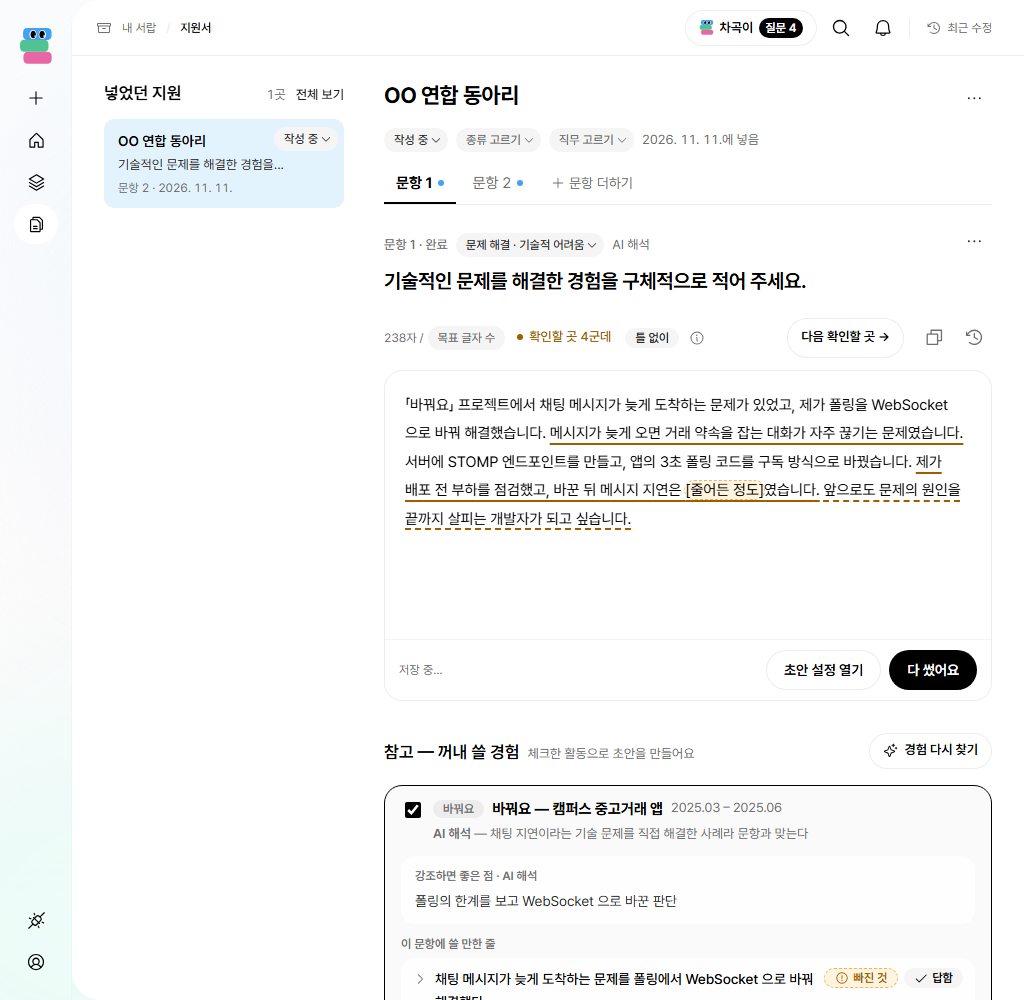
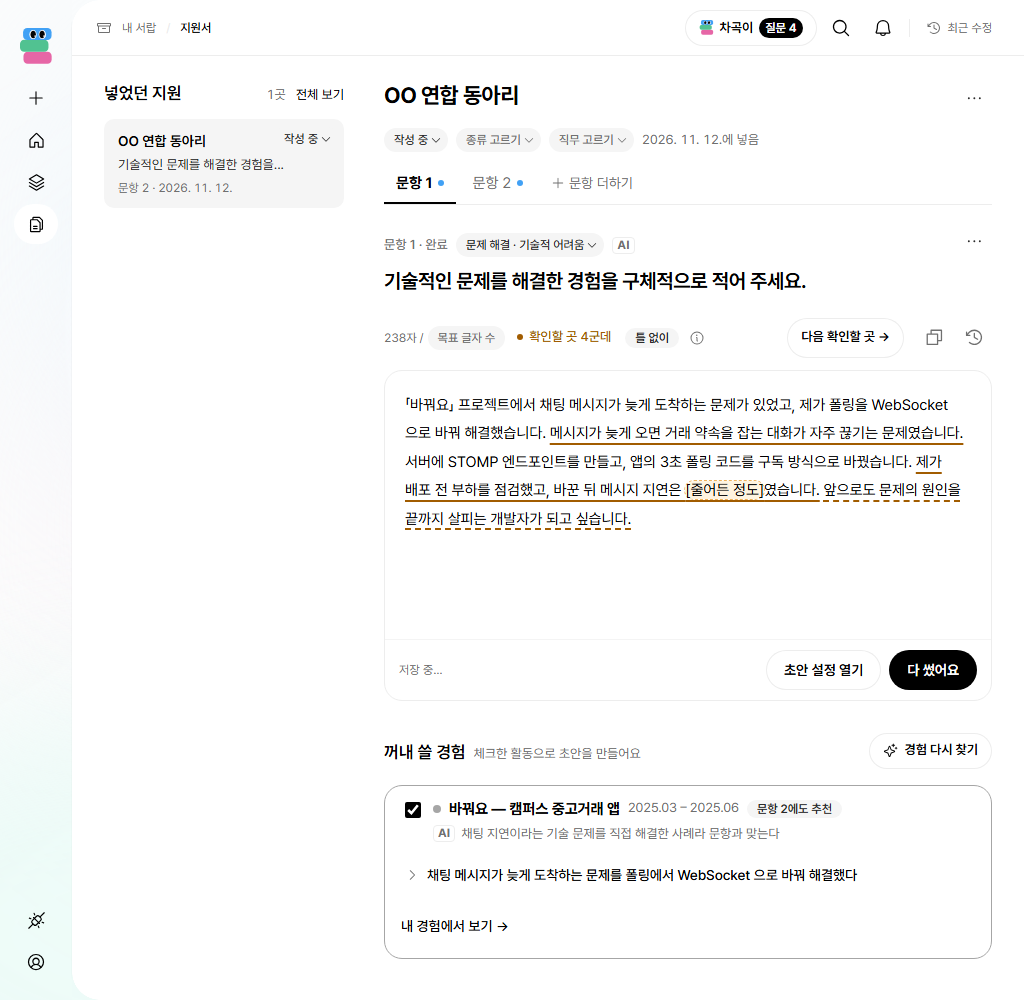
feat(experience-card): 꺼내 쓸 경험 카드 덜어내기 — 원본 칩 · 역량만 남기고 설명 글 빼기 (#510)
PM(2026-11-11): 카드에 설명 · 구분 글자가 너무 많다(ETC#346 의 8 · 9 · 11).
같은 부족한 사실이 카드 「빠진 것」 · 차곡이 「물어볼 것」 · 「초안 보완」 세 곳에 겹쳐
「답함」 배지와 안내 문장까지 필요해졌으니, 카드에서 빼 되묻기 한 곳만 남긴다.

- 「이 문항에 쓸 만한 줄」 제목 · 「빠진 것」 배지/박스 · 「답함」 · 「차곡이 질문에 답했어요」 줄 제거
- 「추천을 뒷받침하는 기록」 · 「원문 발췌」 제목과 발췌 상자 제거 — 펼치면 원본 칩(같은 파일은 한 칩)만
- 펼친 메타는 예외만: 수행 주체는 팀 · 알 수 없음일 때만, 출처는 「확인 필요」만(ExperienceMeta quiet)
- 펼칠 게 없는 줄은 접는 표시도 없다
- 이유 한 줄은 두 줄에서 자르고 「더 보기」로 전체
- 원본 창 설명 「넣을 때 저장한 글자예요 …」 제거
- 「타임라인에서 활동 보기 →」 → 「내 경험에서 보기 →」

차곡이 실행 결과 카드(chagok-run)의 RecommendationEvidence 는 범위 밖이라 그대로 둔다.

diff --git a/src/components/questions/question-result.tsx b/src/components/questions/question-result.tsx
@@ -1,8 +1,9 @@
 import Link from "next/link";
-import { useState } from "react";
+import { useEffect, useRef, useState } from "react";
 import { Popover } from "radix-ui";
-import { CaretRightIcon, CheckIcon, WarningCircleIcon } from "@phosphor-icons/react";
-import { ExperienceMeta } from "@/components/experience/experience-item";
+import { CaretRightIcon } from "@phosphor-icons/react";
+import { ExperienceMeta, hasQuietMeta } from "@/components/experience/experience-item";
+import { SourceFileButton } from "@/components/experience/source-viewer";
 import { CitationList } from "@/components/experience/citation-list";
 import { McpAnswerLabel, UserEnteredLabel } from "@/components/experience/supplement-list";
 import type { QuestionDetail, Recommendation } from "@/lib/api/question-types";
@@ -43,21 +44,15 @@ export function RecommendationEvidence({ recommendation }: { recommendation: Pic
   })}</div>;
 }
 
-/** 이 문항에서 그 경험에 대한 되묻기에 답했나 — 추천은 문항을 넣을 때 한 번 돌아 답해도 그대로라서(question-api.md · AI#21),
- *  카드에 「답함」을 붙여 답이 다음 문항부터 쓰인다고 알린다(FE#65) */
-const answeredFor = (question: QuestionDetail, experienceId: number) =>
-  question.clarifications.some(c => c.experienceId === experienceId && c.supplementId !== null);
-
-const box = "grid content-start gap-1.5 rounded-sm bg-canvas px-3.5 py-3 text-sm leading-relaxed";
-const boxTitle = "m-0 text-xs font-semibold text-muted";
 const badge = "inline-flex items-center gap-1 rounded-full px-2.5 py-px text-xs font-semibold whitespace-nowrap";
 
 /** 카드에 처음 보이는 줄 수 — 넘으면 「더 보기」(FE#358 기본값) */
 const VISIBLE_LINES = 3;
 
 /** 「꺼내 쓸 경험」(시안 6 apply.html 의 접기 카드)을 활동 카드로 묶는다(S-84 · FE#358).
- *  카드 = 활동 이름 · 기간 + 그 활동 첫 추천의 이유(AI 표시 한 번) + 「이 문항에 쓸 만한 줄」. 사용자는 활동만 체크한다.
- *  줄을 펼치면 근거 · 빠진 것. 요구사항 판정 · 되묻기는 차곡이 패널에 있다.
+ *  카드 = 체크 · 활동 이름 · 기간 + 그 활동 첫 추천의 이유(AI 표시 한 번) + 경험 줄. 사용자는 활동만 체크한다.
+ *  줄을 펼치면 원본 칩 · 역량. 강조점 · 근거 발췌 · 빠진 것은 카드에 두지 않는다 — 부족한 사실은 차곡이 되묻기 한 곳에서만(S-20 · FE#510).
+ *  요구사항 판정 · 되묻기는 차곡이 패널에 있다.
  *  overlapOf — 같은 지원의 다른 문항에도 추천된 활동이면 카드 머리 꼬리표로, 누르면 문항별 강조점을 나란히(S-21 · FE#464 — 따로 있던 패널을 없앴다) */
 export function QuestionResult({ question, overlapOf, onPickQuestion, savingAnswer, requestingDraft, picks, onPick, onRematch }: { question: QuestionDetail; overlapOf?: (activityId: number) => Overlap | undefined; onPickQuestion?: (questionId: number) => void; onPick: (activityId: number, on: boolean) => void; onRematch: Rematch } & Pick<DraftActions, "onOpenOmissions" | "savingAnswer" | "requestingDraft" | "picks">) {
   const picksLocked = savingAnswer || requestingDraft || question.draft?.status === "ANALYZING";
@@ -100,12 +95,11 @@ function ActivityCard({ group, index, question, overlap, onPickQuestion, checked
           <span className="text-note text-muted">{periodText(activity.period)}</span>
           {overlap && <OverlapTag overlap={overlap} questionId={question.id} onPick={onPickQuestion} />}
         </div>
-        {/* 이 카드의 AI 표시는 여기 한 번 — 이유 · 빠진 것이 AI 가 쓴 줄이다. 강조점 상자는 본문을 되풀이해 뺐다(AI#105) */}
-        <p className="m-0 text-note leading-normal text-muted"><AiMark className="mr-1.5" />{first.reason}</p>
+        {/* 이 카드의 AI 표시는 여기 한 번 — 이유가 AI 가 쓴 줄이다. 강조점 상자는 본문을 되풀이해 뺐다(AI#105) */}
+        <Reason text={first.reason} />
       </div>
     </div>
     <div className="grid gap-1.5">
-      <p className={boxTitle}>이 문항에 쓸 만한 줄</p>
       <ul className="m-0 grid list-none divide-y divide-hairline-soft p-0">{lines.map(r => <RecommendationLine key={r.experience.id} recommendation={r} question={question} />)}</ul>
       {hidden > 0 && <button type="button" onClick={() => setShowAll(v => !v)} aria-expanded={showAll}
         className="inline-flex min-h-11 lg:min-h-8 items-center justify-self-start text-sm font-medium text-ink underline-offset-3 hover:underline">
@@ -113,45 +107,62 @@ function ActivityCard({ group, index, question, overlap, onPickQuestion, checked
       </button>}
     </div>
     <Link href={`/experience?activity=${activity.id}&fromQuestion=${question.id}`}
-      className="inline-flex min-h-11 lg:min-h-10 items-center justify-self-start text-sm font-medium text-ink underline-offset-3 hover:underline">타임라인에서 활동 보기 →</Link>
+      className="inline-flex min-h-11 lg:min-h-10 items-center justify-self-start text-sm font-medium text-ink underline-offset-3 hover:underline">내 경험에서 보기 →</Link>
   </li>;
 }
 
-/** 「쓸 만한 줄」 하나 — 펼치면 근거 · 빠진 것. 줄은 넣고 빼지 않는다(S-84) */
+/** 이유 한 줄(AI) — 두 줄을 넘으면 두 줄에서 자르고 「더 보기」로 전체(FE#510 기본값) */
+function Reason({ text }: { text: string }) {
+  const ref = useRef<HTMLParagraphElement>(null);
+  const [open, setOpen] = useState(false);
+  const [clamped, setClamped] = useState(false);
+  useEffect(() => {
+    const el = ref.current;
+    if (!el || open) return;
+    const measure = () => setClamped(el.scrollHeight > el.clientHeight + 1);
+    measure();
+    const observer = new ResizeObserver(measure);
+    observer.observe(el);
+    return () => observer.disconnect();
+  }, [text, open]);
+  return <div className="grid justify-items-start">
+    <p ref={ref} className={cn("m-0 text-note leading-normal text-muted", !open && "line-clamp-2")}><AiMark className="mr-1.5" />{text}</p>
+    {(clamped || open) && <button type="button" onClick={() => setOpen(v => !v)} aria-expanded={open}
+      className="inline-flex min-h-11 lg:min-h-6 items-center text-note font-medium text-ink underline-offset-3 hover:underline">{open ? "접기" : "더 보기"}</button>}
+  </div>;
+}
+
+/** 근거로 연결된 원본 — 파일 칩만(누르면 원본 창이 그 줄로 연다). 같은 파일은 한 칩 */
+function sourcesOf(r: Recommendation) {
+  const seen = new Map<number, { sourceId: number; name: string; lines: NonNullable<typeof r.experience.citations[number]["location"]> | null }>();
+  for (const ref of r.evidence) {
+    if (ref.type !== "CITATION") continue;
+    const c = r.experience.citations.find(x => x.id === ref.id);
+    if (c && !seen.has(c.sourceId)) seen.set(c.sourceId, { sourceId: c.sourceId, name: c.sourceName, lines: c.location ?? null });
+  }
+  return [...seen.values()];
+}
+
+/** 경험 줄 하나 — 펼치면 원본 칩 · 역량(AI 해석). 줄은 넣고 빼지 않는다(S-84). 펼칠 게 없으면 접는 표시도 없다 */
 function RecommendationLine({ recommendation: r, question }: { recommendation: Recommendation; question: QuestionDetail }) {
-  const answered = answeredFor(question, r.experience.id);
   // 줄 이름은 문항 전체 추천 순번 — 카드가 묶여도 「추천 경험 N」으로 찾는다
   const n = question.recommendations.indexOf(r) + 1;
+  const sources = sourcesOf(r);
+  const expandable = sources.length > 0 || hasQuietMeta(r.experience);
+  const content = <span className="text-sm leading-relaxed font-medium whitespace-pre-wrap text-ink">{r.experience.content}</span>;
   return <li id={`recommendation-${question.id}-${r.experience.id}`} aria-label={`추천 경험 ${n}`} className="scroll-mt-5 lg:scroll-mt-20">
-    <details className="group">
-      <summary className="grid cursor-pointer list-none grid-cols-[auto_minmax(0,1fr)] items-start gap-x-2 gap-y-1.5 px-1 py-2.5 sm:grid-cols-[auto_minmax(0,1fr)_auto] [&::-webkit-details-marker]:hidden">
+    {!expandable ? <div className="px-1 py-2.5 sm:pl-6.5">{content}</div> : <details className="group">
+      <summary className="grid cursor-pointer list-none grid-cols-[auto_minmax(0,1fr)] items-start gap-x-2 px-1 py-2.5 [&::-webkit-details-marker]:hidden">
         <CaretRightIcon aria-hidden="true" className="mt-1 size-3.5 text-muted transition-transform group-open:rotate-90" />
-        <span className="text-sm leading-relaxed font-medium whitespace-pre-wrap text-ink">{r.experience.content}</span>
-        {(r.gaps.length > 0 || answered) && <span className="col-start-2 flex flex-wrap gap-1.5 justify-self-start sm:col-start-auto sm:justify-self-end">
-          {r.gaps.length > 0 && <span className={`${badge} border border-dashed border-review-line bg-review-soft text-review`}>
-            <WarningCircleIcon aria-hidden="true" className="size-3.5" />빠진 것
-          </span>}
-          {answered && <span className={`${badge} bg-primary-soft text-primary`}>
-            <CheckIcon aria-hidden="true" className="size-3.5" />답함
-          </span>}
-        </span>}
+        {content}
       </summary>
-      <div className="grid gap-2.5 px-1 pb-3 sm:pl-6.5">
-        <span className="flex flex-wrap items-center gap-1.5 text-note font-medium text-muted"><ExperienceMeta experience={r.experience} /></span>
-        <section aria-label={`추천 경험 ${n}의 근거`} className="grid gap-1.5">
-          <p className={boxTitle}>추천을 뒷받침하는 기록</p>
-          <RecommendationEvidence recommendation={r} />
-        </section>
-        {r.gaps.length > 0 && <div className={`${box} border border-dashed border-review-line`}>
-          <p className={boxTitle}>빠진 것 — 자료에서 더 확인할 부분</p>
-          <ul className="m-0 list-disc space-y-1 pl-4 text-body">{r.gaps.map((gap, j) => <li key={j}>{gap}</li>)}</ul>
-          {answered && <p className="m-0 flex items-start gap-1.5 text-note text-body">
-            <CheckIcon aria-hidden="true" className="mt-0.5 size-3.5 shrink-0 text-primary" />
-            <span><b className="font-semibold">차곡이 질문에 답했어요</b> — 보완으로 쌓여 다음 문항부터 근거로 써요. 이 추천은 문항을 넣을 때 만든 거라 위 목록은 그대로예요.</span>
-          </p>}
+      <div className="grid gap-2 px-1 pb-3 sm:pl-6.5">
+        {sources.length > 0 && <div aria-label={`추천 경험 ${n}의 원본`} role="group" className="flex flex-wrap gap-x-3 gap-y-1">
+          {sources.map(src => <SourceFileButton key={src.sourceId} sourceId={src.sourceId} name={src.name} lines={src.lines} />)}
         </div>}
+        {hasQuietMeta(r.experience) && <span className="flex flex-wrap items-center gap-1.5 text-note font-medium text-muted"><ExperienceMeta experience={r.experience} quiet /></span>}
       </div>
-    </details>
+    </details>}
   </li>;
 }
 

diff --git a/tests/question-matching.spec.ts b/tests/question-matching.spec.ts
@@ -37,7 +37,7 @@ async function openList(page: Page) {
   if (page.viewportSize()!.width < 1024) await page.getByRole("button", { name: "지원 목록으로", exact: true }).click();
 }
 const recommendation = (page: Page, n: number) => result(page).getByRole("listitem", { name: `추천 경험 ${n}`, exact: true });
-// 추천은 활동 카드로 묶인다(S-84 · FE#358) — 활동 체크 · 「타임라인에서 활동 보기」는 카드에 있다
+// 추천은 활동 카드로 묶인다(S-84 · FE#358) — 활동 체크 · 「내 경험에서 보기」는 카드에 있다
 const activityCard = (page: Page, n: number) => result(page).getByRole("listitem", { name: `추천 활동 ${n}`, exact: true });
 // 차곡이 패널(FE#51) — 1280 이상은 옆에 붙어 기본으로 열리고, 좁으면 버튼으로 여는 시트
 const chagokPanel = (page: Page) => page.locator("#chagok-panel");
@@ -148,14 +148,21 @@ test("question 41/42 switch shows contract judgments, actors and supplemental ev
   await expect(chagok).toContainText("그 부분은 다시 묻지 않을게요.");
   await closeChagokSheet(page);
   await expand(page, 2);
-  const evidence = result(page).getByRole("region", { name: "추천 경험 2의 근거", exact: true });
-  await expect(evidence.getByText("원문 발췌", { exact: true })).toBeVisible();
-  await expect(evidence.getByText("내가 입력한 보완", { exact: true })).toBeVisible();
-  await expect(evidence).toContainText("서버에 STOMP 엔드포인트를 만들고, 앱의 3초 폴링 코드를 구독 방식으로 바꿨다");
+  // FE#510 — 펼친 줄은 원본 칩만 보인다. 발췌 · 보완 본문 · 「원문 발췌」 · 「빠진 것」 · 출처 글자는 카드에 없다
+  const sources = result(page).getByRole("group", { name: "추천 경험 2의 원본", exact: true });
+  await expect(sources.getByRole("button", { name: "바꿔요-회고.md", exact: true })).toHaveCount(1);
+  await expect(result(page).getByText(/이 문항에 쓸 만한 줄|추천을 뒷받침하는 기록|원문 발췌|내가 입력한 보완|빠진 것/)).toHaveCount(0);
+  await expect(recommendation(page, 2)).not.toContainText("STOMP");
+  await expect(recommendation(page, 2).getByText(/원문 확인|내가 입력/)).toHaveCount(0);
+  await sources.getByRole("button", { name: "바꿔요-회고.md", exact: true }).click();
+  const viewer = page.getByRole("dialog", { name: "바꿔요-회고.md", exact: true });
+  await expect(viewer).toBeVisible();
+  await expect(viewer).not.toContainText("넣을 때 저장한 글자예요");
+  await page.keyboard.press("Escape");
   // S-45의 답 입력칸만 추가된다. 참고 경험과 근거는 계속 읽기 전용이다.
   await expect(result(page).getByRole("textbox", { name: "내가 쓴 답", exact: true })).toBeVisible();
   await expect(result(page).getByRole("textbox")).toHaveCount(1);
-  await expect(evidence.getByRole("textbox")).toHaveCount(0);
+  await expect(sources.getByRole("textbox")).toHaveCount(0);
   if (process.env.UPDATE_QUESTION_SCREENSHOTS === "1") {
     await page.screenshot({ path: `docs/fe-30/questions-${info.project.name}.png`, fullPage: true, style: "nextjs-portal { display: none !important; }" });
   }
@@ -163,7 +170,7 @@ test("question 41/42 switch shows contract judgments, actors and supplemental ev
   await list(page).getByRole("button", { name: /OO 백엔드 부트캠프/ }).click();
   await expect(recommendation(page, 1)).toContainText("WebSocket");
   await expand(page, 1);
-  await expect(recommendation(page, 1).getByText("나", { exact: true })).toBeVisible();
+  await expect(recommendation(page, 1).getByText("나", { exact: true })).toHaveCount(0); // 수행 주체는 팀 · 알 수 없음일 때만(FE#510)
   chagok = await openChagok(page);
   await expect(chagok.getByText("자료에서 확인 안 됨", { exact: true })).toHaveCount(2);
   await expect(chagok.getByText("근거 있음", { exact: true })).toHaveCount(1);
@@ -276,13 +283,14 @@ test("three recommendations, UNKNOWN actor and missing evidence never invent quo
   });
   await page.goto("/questions");
   await expect(result(page).getByRole("listitem", { name: /^추천 경험/ })).toHaveCount(3);
-  await expect(recommendation(page, 1)).toContainText("이 추천에 연결된 원문 근거나 보완이 없어요.");
+  // 근거가 없거나 못 찾은 줄은 원본 칩이 없을 뿐 — 지어 낸 발췌 · 안내 글을 넣지 않는다(FE#510)
+  await expect(recommendation(page, 1).getByRole("button")).toHaveCount(0);
+  await expect(recommendation(page, 1).locator("blockquote")).toHaveCount(0);
   await closeChagokSheet(page);
   await expand(page, 3);
   await expect(recommendation(page, 3).getByText("알 수 없음", { exact: true })).toBeVisible();
   await expect(recommendation(page, 3).getByText("AI 해석", { exact: true })).toHaveCount(0);
-  await expect(recommendation(page, 3)).toContainText("연결된 원문 근거를 찾지 못했어요.");
-  await expect(recommendation(page, 3)).toContainText("연결된 보완을 찾지 못했어요.");
+  await expect(recommendation(page, 3).getByRole("group", { name: "추천 경험 3의 원본" })).toHaveCount(0);
   await expect(recommendation(page, 3).locator("blockquote")).toHaveCount(0);
 });
 
@@ -657,7 +665,7 @@ test("answering a clarification posts it and shows it on the experience as user-
 
   // 활동 세부(실제 타임라인) — 원문 확인 표시는 그대로, 보완은 「내가 입력한 보완」으로 따로 · 어느 지원에서 답했는지
   await expand(page, 1);
-  await activityCard(page, 1).getByRole("link", { name: /타임라인에서 활동 보기/ }).click();
+  await activityCard(page, 1).getByRole("link", { name: /내 경험에서 보기/ }).click();
   await expect(page).toHaveURL(/\/experience\?activity=7&fromQuestion=41/);
   const activity = page.getByRole("complementary", { name: "활동 세부" });
   const first = activity.locator("li").first();
@@ -693,25 +701,25 @@ test("chagok panel toggles; narrow screens start closed and show how many questi
   await expect(chagokPanel(page)).toContainText("「바꿔요」 경험이 가장 잘 맞아요. 「꺼내 쓸 경험」에 2개 골라 뒀어요.");
 });
 
-// FE#65 — 추천은 문항을 넣을 때 한 번 돈다(답해도 그대로). 답한 경험의 카드엔 「답함」과 다음 문항부터 쓰인다는 안내
-test("answering a clarification marks that recommendation as answered without re-running it", async ({ page }, info) => {
+// FE#65 · FE#510 — 추천은 문항을 넣을 때 한 번 돈다(답해도 그대로). 부족한 사실은 차곡이 되묻기에서만 보이고, 카드엔 「빠진 것」 · 「답함」 · 안내가 없다
+test("answering a clarification does not re-run the recommendation and the card shows no gaps or answered notes", async ({ page }, info) => {
   const api = await fake(page);
   await page.goto("/questions");
   const card = recommendation(page, 1);
-  const note = "차곡이 질문에 답했어요";
+  const gap = "회고에서 내가 맡은 몫이 자료에 없다";
   await expect(card).toContainText("매주 금요일");
-  await expect(card.getByText("답함", { exact: true })).toHaveCount(0);
+  await expect(card).not.toContainText(gap);
+  await expect(card.getByText(/빠진 것|답함/)).toHaveCount(0);
   await openChagok(page);
   await openAsks(page);
   const asks = chagokPanel(page).getByRole("list", { name: "차곡이의 질문", exact: true });
+  await expect(asks).toContainText("매주 회고에서 직접 맡은 일이 있었다면 무엇이었나요?");
   await asks.getByRole("textbox", { name: /^답: / }).fill("회고 진행표를 만들고 매주 진행을 맡았다");
   await asks.getByRole("button", { name: "답하기", exact: true }).click();
   await expect(asks.getByRole("textbox")).toHaveCount(0);
   await closeChagokSheet(page);
-  await expect(card.getByText("답함", { exact: true })).toBeVisible();
-  await expect(card).toContainText(note);
-  // 「빠진 것」은 그대로 — 추천을 다시 돌리지 않는다
-  await expect(card).toContainText("회고에서 내가 맡은 몫이 자료에 없다");
+  await expect(card.getByText(/빠진 것|답함/)).toHaveCount(0);
+  await expect(card).not.toContainText("차곡이 질문에 답했어요");
   expect(posts(api).map(p => p.call)).toEqual(["POST /api/clarifications/63/answer"]);
   if (process.env.UPDATE_QUESTION_SCREENSHOTS === "1") await card.screenshot({ path: `docs/fe-65/answered-${info.project.name}.png`, style: "nextjs-portal { display: none !important; }" });
 });

diff --git a/src/components/experience/experience-item.tsx b/src/components/experience/experience-item.tsx
@@ -7,7 +7,7 @@ import { DropdownMenu } from "radix-ui";
 import { cn } from "@/lib/utils";
 import { COMPETENCIES, type Actor, type Experience, type SourceStatus } from "@/lib/api/types";
 import { CitationList } from "./citation-list";
-import { useState } from "react";
+import { Fragment, useState } from "react";
 import { Button } from "@/components/ui/button";
 import { ActorField, CompetencyField, ExperienceContentField } from "./inline-edit";
 import { ExperienceMcpChange } from "./experience-mcp-change";
@@ -65,32 +65,34 @@ export function SourceStatusIcon({ status }: { status: SourceStatus }) {
 const isAiCompetency = (e: Pick<Experience, "competenciesBy" | "sourceStatus">) =>
   e.competenciesBy === undefined ? e.sourceStatus !== "USER_ENTERED" : e.competenciesBy === "AI";
 
+type MetaFields = Pick<Experience, "actor" | "competencies" | "competenciesBy" | "sourceStatus" | "origin">;
+
+/** 예외만 보이는 메타(FE#510) — 수행 주체는 팀 · 알 수 없음일 때만, 출처 상태는 확인 필요일 때만 */
+export const hasQuietMeta = (e: MetaFields) =>
+  e.actor !== "ME" || e.origin?.type === "ANSWER" || e.sourceStatus === "NEEDS_REVIEW" || e.competencies.length > 0;
+
 /** 수행 주체 · 출처 상태 · 역량 — AI 표시는 부가 정보라 맨 뒤. 고칠 수 있는 줄(edit)에선 출처 상태를 빼고 근거 옆 아이콘으로(FE#293) */
-export function ExperienceMeta({ experience: e, edit, noSource }: {
-  experience: Pick<Experience, "actor" | "competencies" | "competenciesBy" | "sourceStatus" | "origin">;
+export function ExperienceMeta({ experience: e, edit, noSource, quiet }: {
+  experience: MetaFields;
   /** 출처 상태를 근거 옆 아이콘(SourceStatusIcon)으로 따로 둘 때 — 꺼내기 답(FE#363) */
   noSource?: boolean;
+  /** 예외만 보인다 — 나 · 원문 확인 · 내가 입력은 감춘다. 꺼내 쓸 경험 카드(FE#510). 고치는 줄(edit)엔 쓰지 않는다 */
+  quiet?: boolean;
   /** 주면 수행 주체 · 역량을 눌러 그 자리에서 고친다 (S-10) */
   edit?: { experience: Experience; onSaved: (experience: Experience) => void };
 }) {
-  const sep = <span className="text-hairline">·</span>;
   const aiMark = isAiCompetency(e) && <AiMark className="ml-1" title="AI 가 붙인 역량 — 해석이에요" />;
-  return (
-    <>
-      {edit ? <ActorField experience={edit.experience} onSaved={edit.onSaved} /> : <span>{ACTOR[e.actor]}</span>}
-      {e.origin?.type === "ANSWER" ? <>{sep}<Link href={`/questions?question=${e.origin.questionId}`} className="min-w-0 break-words underline-offset-3 hover:underline">내가 쓴 지원서 · {e.origin.organization || "지원처 미입력"} · {e.origin.questionText}</Link></>
-        : !edit && !noSource && <>{sep}<SourceStatusMark status={e.sourceStatus} /></>}
-      {edit ? <>{sep}<CompetencyField experience={edit.experience} aiMark={aiMark} onSaved={edit.onSaved} /></> : e.competencies.length > 0 && (
-        <>
-          {sep}
-          <span>
-            {e.competencies.map((c) => COMPETENCIES[c]).join(" · ")}
-            {aiMark}
-          </span>
-        </>
-      )}
-    </>
-  );
+  const parts: React.ReactNode[] = [];
+  if (edit) parts.push(<ActorField key="actor" experience={edit.experience} onSaved={edit.onSaved} />);
+  else if (!quiet || e.actor !== "ME") parts.push(<span key="actor">{ACTOR[e.actor]}</span>);
+  if (e.origin?.type === "ANSWER") parts.push(<Link key="origin" href={`/questions?question=${e.origin.questionId}`} className="min-w-0 break-words underline-offset-3 hover:underline">내가 쓴 지원서 · {e.origin.organization || "지원처 미입력"} · {e.origin.questionText}</Link>);
+  else if (!edit && !noSource && (!quiet || e.sourceStatus === "NEEDS_REVIEW")) parts.push(<SourceStatusMark key="source" status={e.sourceStatus} />);
+  if (edit) parts.push(<CompetencyField key="competency" experience={edit.experience} aiMark={aiMark} onSaved={edit.onSaved} />);
+  else if (e.competencies.length > 0) parts.push(<span key="competency">
+    {e.competencies.map((c) => COMPETENCIES[c]).join(" · ")}
+    {aiMark}
+  </span>);
+  return <>{parts.map((part, i) => <Fragment key={i}>{i > 0 && <span className="text-hairline">·</span>}{part}</Fragment>)}</>;
 }
 
 /** 미리 보기의 속성 목록 — 한 줄에 몰지 않고 칸마다 나눈다. 역량이 AI 해석이면 그 칸에만 적는다 */

diff --git a/src/components/experience/source-viewer.tsx b/src/components/experience/source-viewer.tsx
@@ -5,7 +5,7 @@ import { useEffect, useRef, useState } from "react";
 import { ArrowsClockwiseIcon, FileTextIcon } from "@phosphor-icons/react";
 import { Button } from "@/components/ui/button";
 import { Skeleton } from "@/components/ui/skeleton";
-import { Dialog, DialogContent, DialogDescription, DialogTitle } from "@/components/ui/dialog";
+import { Dialog, DialogContent, DialogTitle } from "@/components/ui/dialog";
 import { fetchSource } from "@/lib/api/experience";
 import type { Citation, SourceText } from "@/lib/api/types";
 
@@ -21,11 +21,8 @@ export function SourceFileButton({ sourceId, name, lines }: { sourceId: number; 
       {name}
     </button>
     <Dialog open={open} onOpenChange={setOpen}>
-      <DialogContent className="grid max-h-[85dvh] grid-rows-[auto_minmax(0,1fr)] gap-3 sm:max-w-2xl">
-        <div className="grid gap-1 pr-8">
-          <DialogTitle className="break-words">{name}</DialogTitle>
-          <DialogDescription>넣을 때 저장한 글자예요. 고칠 수 없고, 파일의 모양은 보이지 않아요.</DialogDescription>
-        </div>
+      <DialogContent aria-describedby={undefined} className="grid max-h-[85dvh] grid-rows-[auto_minmax(0,1fr)] gap-3 sm:max-w-2xl">
+        <DialogTitle className="pr-8 break-words">{name}</DialogTitle>
         {open && <SourceBody sourceId={sourceId} lines={lines} />}
       </DialogContent>
     </Dialog>

diff --git a/src/components/questions/answer-evidence.tsx b/src/components/questions/answer-evidence.tsx
@@ -16,7 +16,7 @@ export function AnswerEvidence({ evidence: e, questionId, question }: { evidence
     <div className="grid gap-2 pt-3">
       {asked && e.type === "SUPPLEMENT" && <p className="m-0 text-note text-muted">질문 · {asked}</p>}
       <blockquote className="m-0 whitespace-pre-wrap break-words border-l-2 border-hairline pl-3 leading-relaxed text-body">{e.text}</blockquote>
-      <a href={`/experience?activity=${e.activityId}&fromQuestion=${questionId}`} className="inline-flex min-h-11 lg:min-h-10 items-center text-xs underline underline-offset-3">타임라인에서 활동 보기 →</a>
+      <a href={`/experience?activity=${e.activityId}&fromQuestion=${questionId}`} className="inline-flex min-h-11 lg:min-h-10 items-center text-xs underline underline-offset-3">내 경험에서 보기 →</a>
     </div>
   </details>;
 }

diff --git a/src/components/experience/timeline-screen.tsx b/src/components/experience/timeline-screen.tsx
@@ -151,7 +151,7 @@ export function TimelineScreen() {
     );
   };
 
-  // 다른 화면의 활동 링크(?activity=7 · ?experience=12, 지원의 「타임라인에서 활동 보기」 등) — 사용자가 누른 것이니
+  // 다른 화면의 활동 링크(?activity=7 · ?experience=12, 지원의 「내 경험에서 보기」 등) — 사용자가 누른 것이니
   // 이미 열어 둔 활동보다 우선해서 연다(FE#322). cacheComponents 로 숨겨진 채 남은 selectedRef 가 링크를 막지 않게 한다.
   // 처리한 뒤엔 주소에서 지워 새로고침 · 뒤로 가기에 다시 강제로 열리지 않게 한다. fromQuestion 은 「지원 화면으로 돌아가기」 쪽지에만 쓰여 둔다
   const linkedActivity = Number(params.get("activity")) || null;

diff --git a/src/components/questions/use-draft-picks.ts b/src/components/questions/use-draft-picks.ts
@@ -3,7 +3,7 @@
 import { useCallback, useState } from "react";
 import type { QuestionDetail, Recommendation } from "@/lib/api/question-types";
 
-/** 활동 카드 하나 — 활동과 그 활동에 묶인 추천(「이 문항에 쓸 만한 줄」) */
+/** 활동 카드 하나 — 활동과 그 활동에 묶인 추천(경험 줄) */
 export type ActivityGroup = { activity: Recommendation["activity"]; recommendations: Recommendation[] };
 
 /** 추천을 activity.id 로 묶는다. 활동 순서는 그 활동의 첫 추천 순서, 줄 순서는 추천 순서(S-84 · question-api.md 「추천」) */
